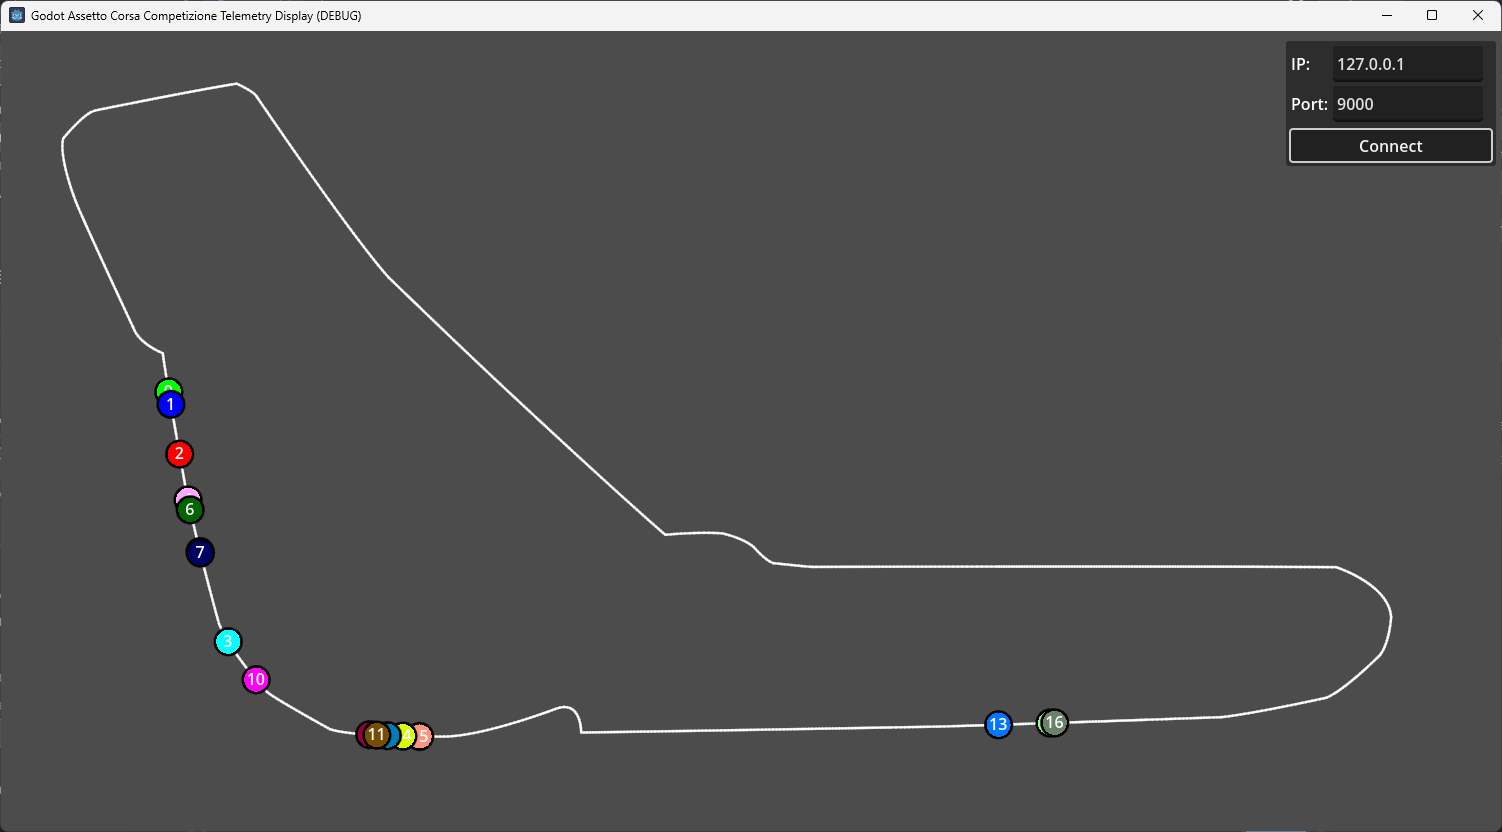
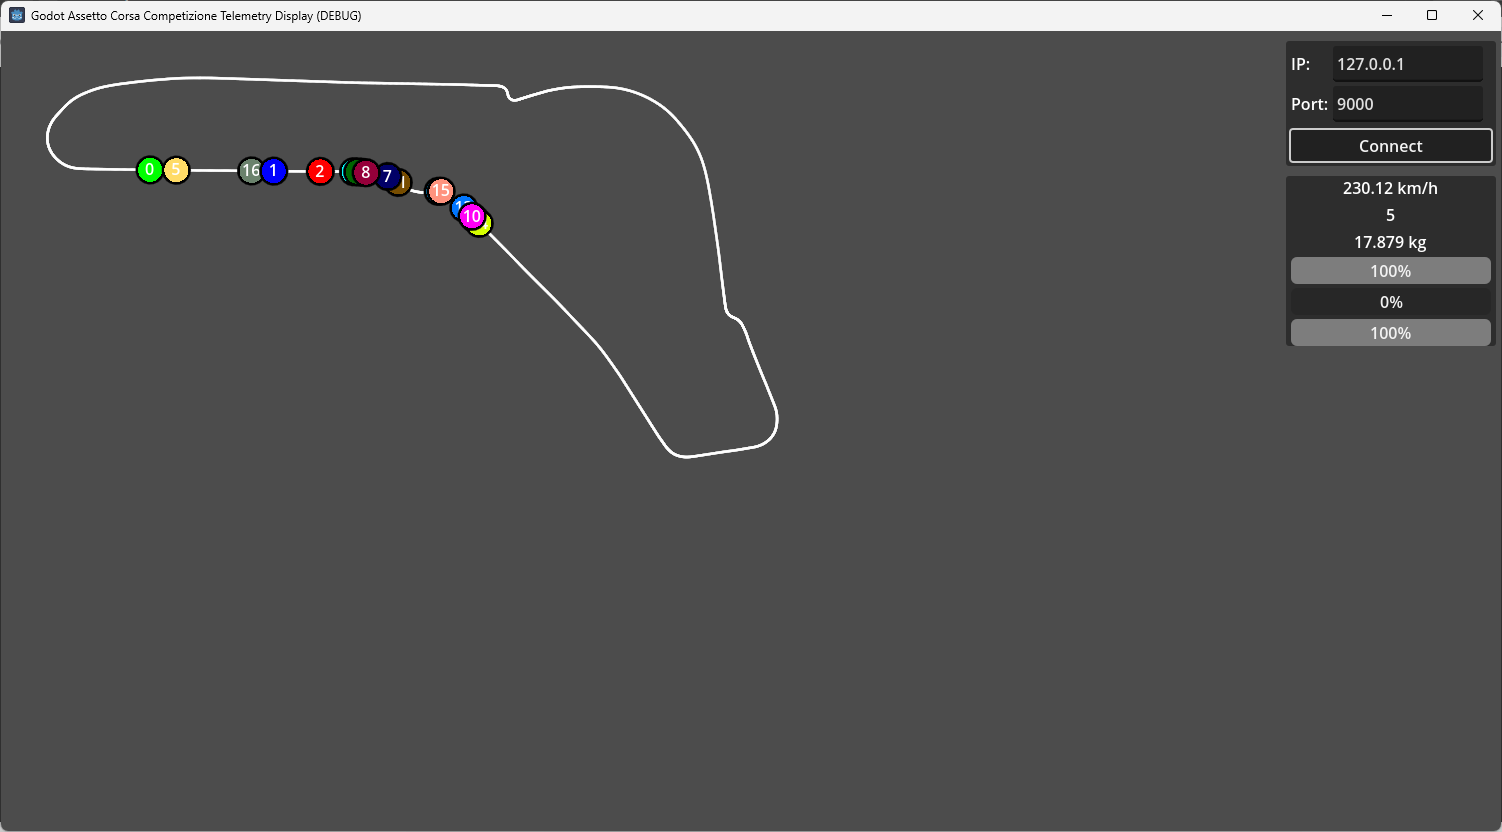
improve track display, extend acc telemetry

diff --git a/src/acc_telemetry.cpp b/src/acc_telemetry.cpp
@@ -2,6 +2,7 @@
 #include "SharedFileOut.h"
 
 #include <windows.h>
+#include <algorithm>
 #include <godot_cpp/core/class_db.hpp>
 #include <godot_cpp/variant/dictionary.hpp>
 
@@ -89,14 +90,15 @@ bool AccTelemetry::init_mm(SMElement *element, TCHAR name[], size_t size)
 
 Dictionary AccTelemetry::poll_physics()
 {
-    Dictionary result;
-
     SPageFilePhysics* pf = (SPageFilePhysics*)m_physics.mapFileBuffer;
+
+    Dictionary result;
     result["packetId"] = pf->packetId;
     result["brake"] = pf->brake;
     result["gas"] = pf->gas;
     result["fuel"] = pf->fuel;
     result["gear"] = pf->gear;
+    result["rpms"] = pf->rpms;
     result["speedKmh"] = pf->speedKmh;
     result["steerAngle"] = pf->steerAngle;
     result["clutch"] = pf->clutch;
@@ -107,12 +109,68 @@ Dictionary AccTelemetry::poll_physics()
 
 Dictionary AccTelemetry::poll_graphics()
 {
+	SPageFileGraphic* pf = (SPageFileGraphic*)m_graphics.mapFileBuffer;
+
+	PackedVector3Array car_coordinates = PackedVector3Array();
+	PackedInt32Array car_id = PackedInt32Array();
+
+	int cars = std::max(std::min(pf->activeCars, 60), 0);
+
+	car_coordinates.resize(cars);
+	car_id.resize(cars);
+
+	for (int i = 0; i < cars; ++i) {
+		car_coordinates.push_back(Vector3(pf->carCoordinates[i][0], pf->carCoordinates[i][1], pf->carCoordinates[i][2]));
+		car_id.push_back(pf->carID[i]);
+	}
+
 	Dictionary result;
+    result["packetId"] = pf->packetId;
+	result["status"] = pf->status;
+	result["session"] = pf->session;
+	result["position"] = pf->position;
+	result["sessionTimeLeft"] = pf->sessionTimeLeft;
+	result["isInPit"] = pf->isInPit;
+	result["normalizedCarPosition"] = pf->normalizedCarPosition;
+	result["playerCarID"] = pf->playerCarID;
+	result["penaltyTime"] = pf->penaltyTime;
+	result["flag"] = pf->flag;
+	result["penalty"] = (int)pf->penalty;
+	result["isInPitLane"] = pf->isInPitLane;
+	result["TC"] = pf->TC;
+	result["TCCUT"] = pf->TCCut;
+	result["EngineMap"] = pf->EngineMap;
+	result["ABS"] = pf->ABS;
+	result["fuelXLap"] = pf->fuelXLap;
+	result["fuelEstimatedLaps"] = pf->fuelEstimatedLaps;
+	result["carCoordinates"] = car_coordinates;
+	result["carID"] = car_id;
+
     return result;
 }
 
 Dictionary AccTelemetry::poll_static()
 {
+	SPageFileStatic* pf = (SPageFileStatic*)m_static.mapFileBuffer;
+	
 	Dictionary result;
+	result["smVersion"] = String(pf->smVersion);
+	result["acVersion"] = String(pf->acVersion);
+	result["numberOfSessions"] = pf->numberOfSessions;
+	result["numCars"] = pf->numCars;
+	result["carModel"] = String(pf->carModel);
+	result["track"] = String(pf->track);
+	result["playerName"] = String(pf->playerName);
+	result["playerSurname"] = String(pf->playerSurname);
+	result["playerNick"] = String(pf->playerNick);
+
+	result["penaltiesEnabled"] = pf->penaltiesEnabled;
+	result["sectorCount"] = pf->sectorCount;
+	result["maxRpm"] = pf->maxRpm;
+	result["maxFuel"] = pf->maxFuel;
+	result["PitWindowStart"] = pf->PitWindowStart;
+	result["PitWindowEnd"] = pf->PitWindowEnd;
+	result["isOnline"] = pf->isOnline;
+
     return result;
 }

diff --git a/src/SharedFileOut.h b/src/SharedFileOut.h
@@ -62,6 +62,32 @@ typedef int AC_FLAG_TYPE;
 #define AC_CHECKERED_FLAG 5
 #define AC_PENALTY_FLAG 6
 
+typedef int ACC_TRACK_GRIP_STATUS;
+
+#define ACC_GREEN 0
+#define ACC_FAST 1
+#define ACC_OPTIMUM 2
+#define ACC_GREASY 3
+#define ACC_DAMP 4
+#define ACC_WET 5
+#define ACC_FLOODED 6
+
+typedef int ACC_RAIN_INTENSITY;
+
+#define ACC_NO_RAIN = 0
+#define ACC_DRIZZLE = 1
+#define ACC_LIGHT_RAIN = 2
+#define ACC_MEDIUM_RAIN = 3
+#define ACC_HEAVY_RAIN = 4
+#define ACC_THUNDERSTORM = 5
+
+typedef int ACC_WHEELS_TYPE;
+
+#define ACC_FRONTLEFT 0
+#define ACC_FRONTRIGHT 1
+#define ACC_REARLEFT 2
+#define ACC_REARRIGHT 3
+
 
 #pragma pack(push)
 #pragma pack(4)
@@ -154,7 +180,19 @@ struct SPageFilePhysics
     int absInAction = 0;
     float suspensionDamage[4];
     float tyreTemp[4];
-
+    float waterTemp;
+    float brakePressure[4];
+    int frontBrakeCompound;
+    int rearBrakeCompound;
+    float padLife[4];
+    float discLife[4];
+    int ignitionOn;
+    int starterEngineOn;
+    int isEngineRunning;
+    float kerbVibration;
+    float slipVibrations;
+    float gVibrations;
+    float absVibrations;
 };
 
 
@@ -216,6 +254,43 @@ struct SPageFileGraphic
     int DriverStintTotalTimeLeft = 0;
     int DriverStintTimeLeft = 0;
     int rainTyres = 0;
+    int sessionIndex;
+    float usedFuel;
+    wchar_t deltaLapTime[15];
+    int iDeltaLapTime;
+    wchar_t estimatedLapTime[15];
+    int iEstimatedLapTime;
+    int isDeltaPositive;
+    int iSplit;
+    int isValidLap;
+    float fuelEstimatedLaps;
+    wchar_t trackStatus[33];
+    int missingMandatoryPits;
+    float Clock;
+    int directionLightsLeft;
+    int directionLightsRight;
+    int GlobalYellow;
+    int GlobalYellow1;
+    int GlobalYellow2;
+    int GlobalYellow3;
+    int GlobalWhite;
+    int GlobalGreen;
+    int GlobalChequered;
+    int GlobalRed;
+    int mfdTyreSet;
+    float mfdFuelToAdd;
+    float mfdTyrePressureLF;
+    float mfdTyrePressureRF;
+    float mfdTyrePressureLR;
+    float mfdTyrePressureRR;
+    ACC_TRACK_GRIP_STATUS trackGripStatus;
+    ACC_RAIN_INTENSITY rainIntensity;
+    ACC_RAIN_INTENSITY rainIntensityIn10min;
+    ACC_RAIN_INTENSITY rainIntensityIn30min;
+    int currentTyreSet;
+    int strategyTyreSet;
+    int gapAhead;
+    int gapBehind;
 };
 
 
@@ -274,6 +349,8 @@ struct SPageFileStatic
     int PitWindowStart = 0;
     int PitWindowEnd = 0;
     int isOnline = 0;
+    wchar_t dryTyresName[33];
+    wchar_t wetTyresName[33];
 };
 
 
